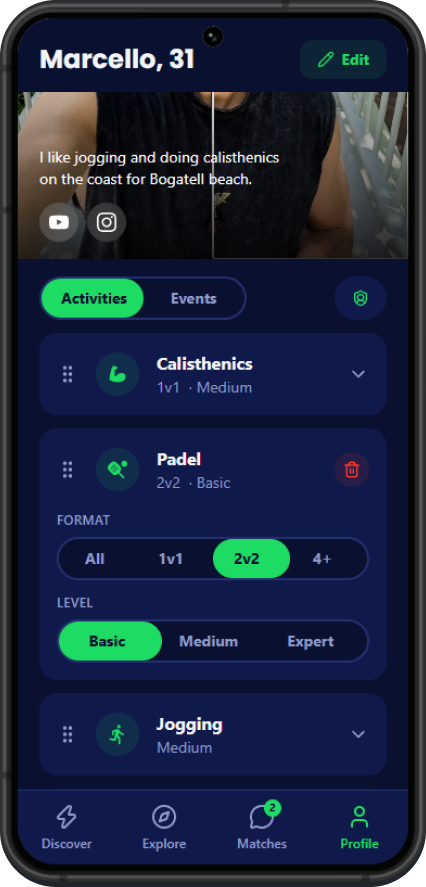
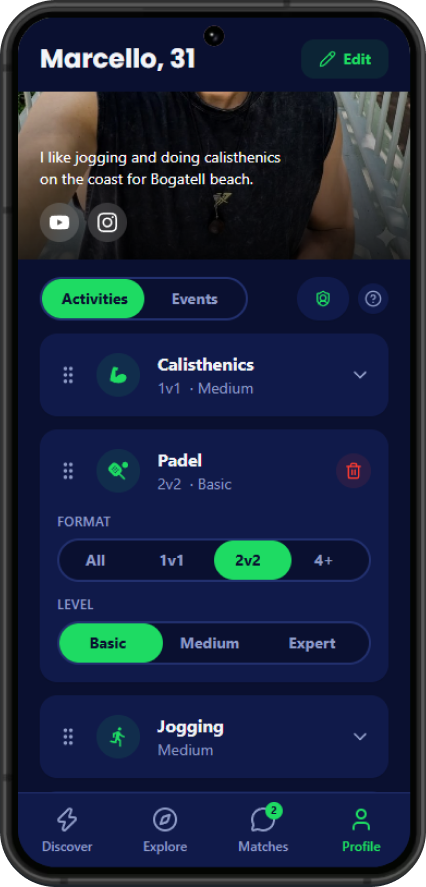
wip

diff --git a/vite.config.ts b/vite.config.ts
@@ -61,15 +61,34 @@ export default defineConfig({
 				display: 'standalone',
 				orientation: 'portrait',
 				start_url: '/',
-				// no maskable/512 round asset in the new icon set (static/icons) - just the two "any" sizes it ships
+				// ic_launcher.png's wordmark sits well within the maskable safe zone (center 80%
+				// circle) already, so the same file can serve both purposes - without a declared
+				// "maskable" icon, Android/Chrome synthesizes its own fallback that shrinks+pads the
+				// icon further (small logo floating in a white circle), which is what "not filling all
+				// the space" looked like.
 				icons: [
 					{
 						src: '/icons/ic_launcher.png',
 						sizes: '192x192',
 						type: 'image/png',
-						purpose: 'any'
+						purpose: 'any maskable'
 					},
-					{ src: '/icons/ic_launcher.png', sizes: '512x512', type: 'image/png', purpose: 'any' }
+					{
+						src: '/icons/ic_launcher.png',
+						sizes: '512x512',
+						type: 'image/png',
+						purpose: 'any maskable'
+					},
+					// Android 13+ "themed icon" support (Material You tinting to match wallpaper) - the OS
+					// only reads this shape's alpha channel and recolors it itself, so the source fill
+					// color doesn't matter. Reuses the adaptive-icon foreground layer already generated
+					// alongside ic_launcher.png (previously unused).
+					{
+						src: '/icons/drawable-anydpi/ic_launcher.svg',
+						sizes: 'any',
+						type: 'image/svg+xml',
+						purpose: 'monochrome'
+					}
 				]
 			}
 		})

diff --git a/src/app.css b/src/app.css
@@ -4,13 +4,13 @@
 @import "@fontsource/poppins/latin-700.css";
 
 @theme {
-  --color-primary: #16a34a;
-  --color-secondary: #15803d;
-  --color-bg: #06170b;
-  --color-surface: #0d2814;
-  --color-text: #eafcef;
-  --color-muted: #8fbd9c;
-  --color-border: #1d4029;
+  --color-primary: #1edb63;
+  --color-secondary: #0e2a8c;
+  --color-bg: #0a1030;
+  --color-surface: #101a4a;
+  --color-text: #f2f4f8;
+  --color-muted: #8f9cc7;
+  --color-border: #22306e;
   --color-error: #ff3b30;
   --color-success: #34c759;
 

diff --git a/src/lib/components/ActivityCarousel.svelte b/src/lib/components/ActivityCarousel.svelte
@@ -1,5 +1,6 @@
 <script module lang="ts">
   export const CAROUSEL_ACTIVITIES = [
+    { id: "surf" },
     { id: "padel" },
     { id: "beachVolley" },
     { id: "jogging" },
@@ -8,7 +9,6 @@
     { id: "footVolley" },
     { id: "skateboard" },
     { id: "basketball" },
-    { id: "surf" },
     { id: "soccer" },
     { id: "cycling" },
   ];
